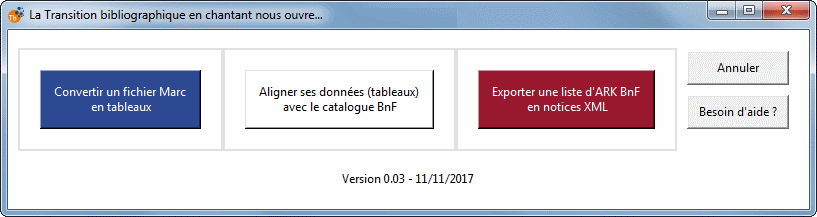
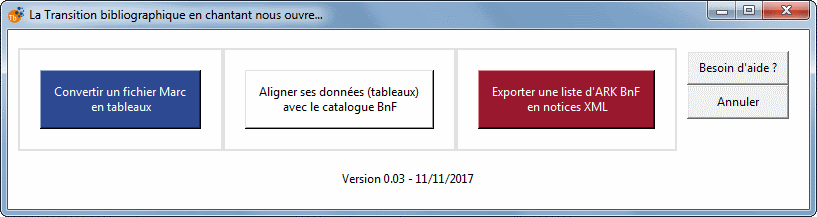
Correction boutons formulaire

diff --git a/main.py b/main.py
@@ -191,13 +191,16 @@ def formulaire_main(access_to_network, last_version):
                                   padx=10,pady=10, bg="#99182D", fg="white")
     ark2recordsButton.pack()
 
-    call4help = tk.Button(zone_ok_help_cancel, text="Besoin d'aide ?", command=lambda: click2help("https://github.com/Lully/transbiblio"), pady=5, padx=5, width=12)
-    call4help.pack()
+
     
     tk.Label(zone_ok_help_cancel,text=" ", pady=5, bg=couleur_fond).pack()
     
+
+    call4help = tk.Button(frame_help_cancel, text="Besoin d'aide ?", command=lambda: click2help("https://github.com/Lully/transbiblio"), pady=5, padx=5, width=12)
+    call4help.pack()
     cancel = tk.Button(frame_help_cancel, text="Annuler", command=lambda: annuler(master), pady=5, padx=5, width=12)
     cancel.pack()
+
 
 
     tk.Label(zone_notes, text = "Version " + str(version) + " - " + lastupdate, bg=couleur_fond).pack()
